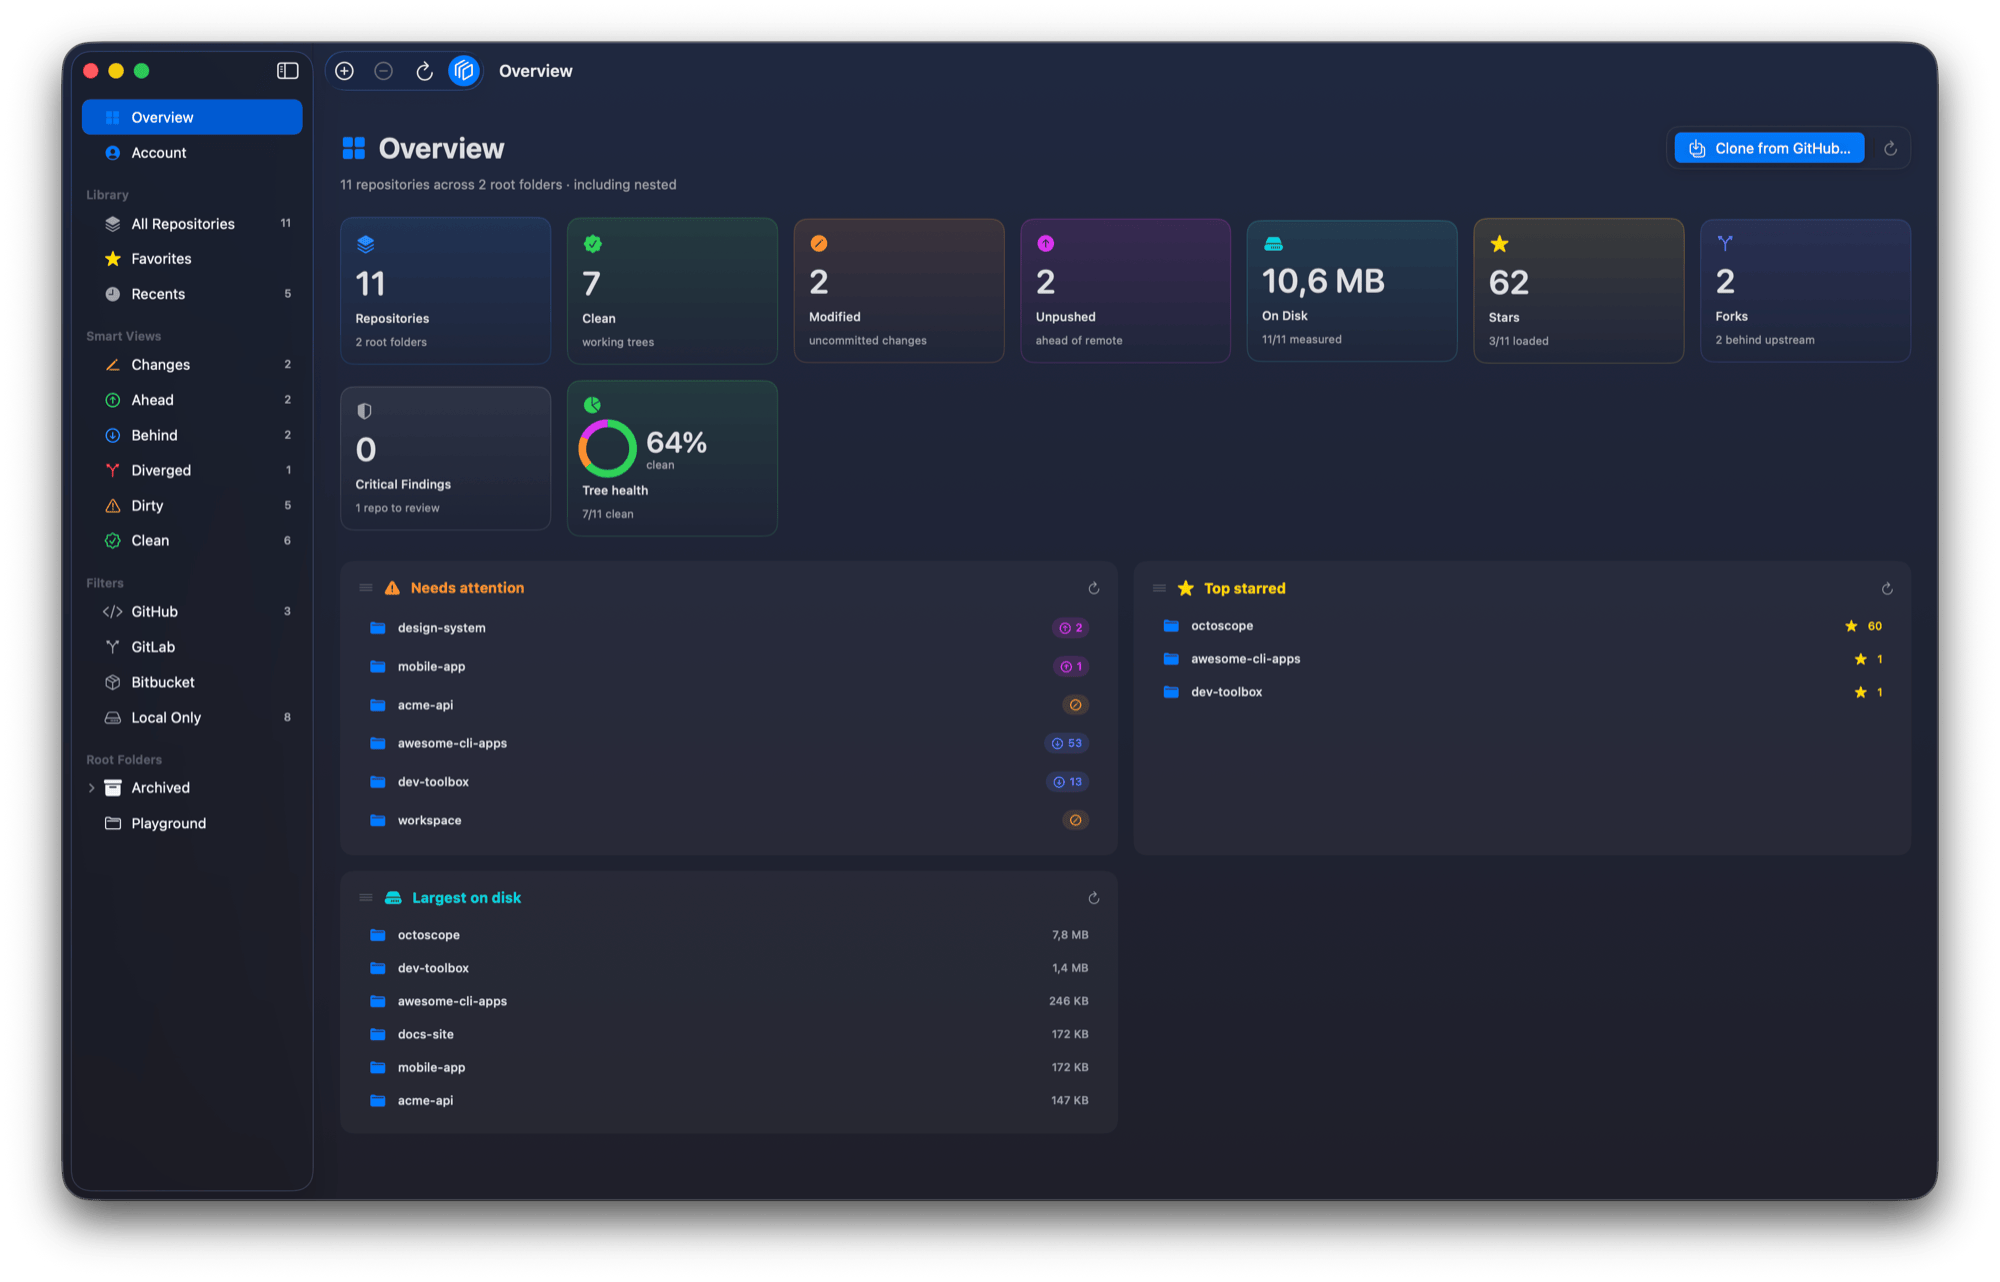
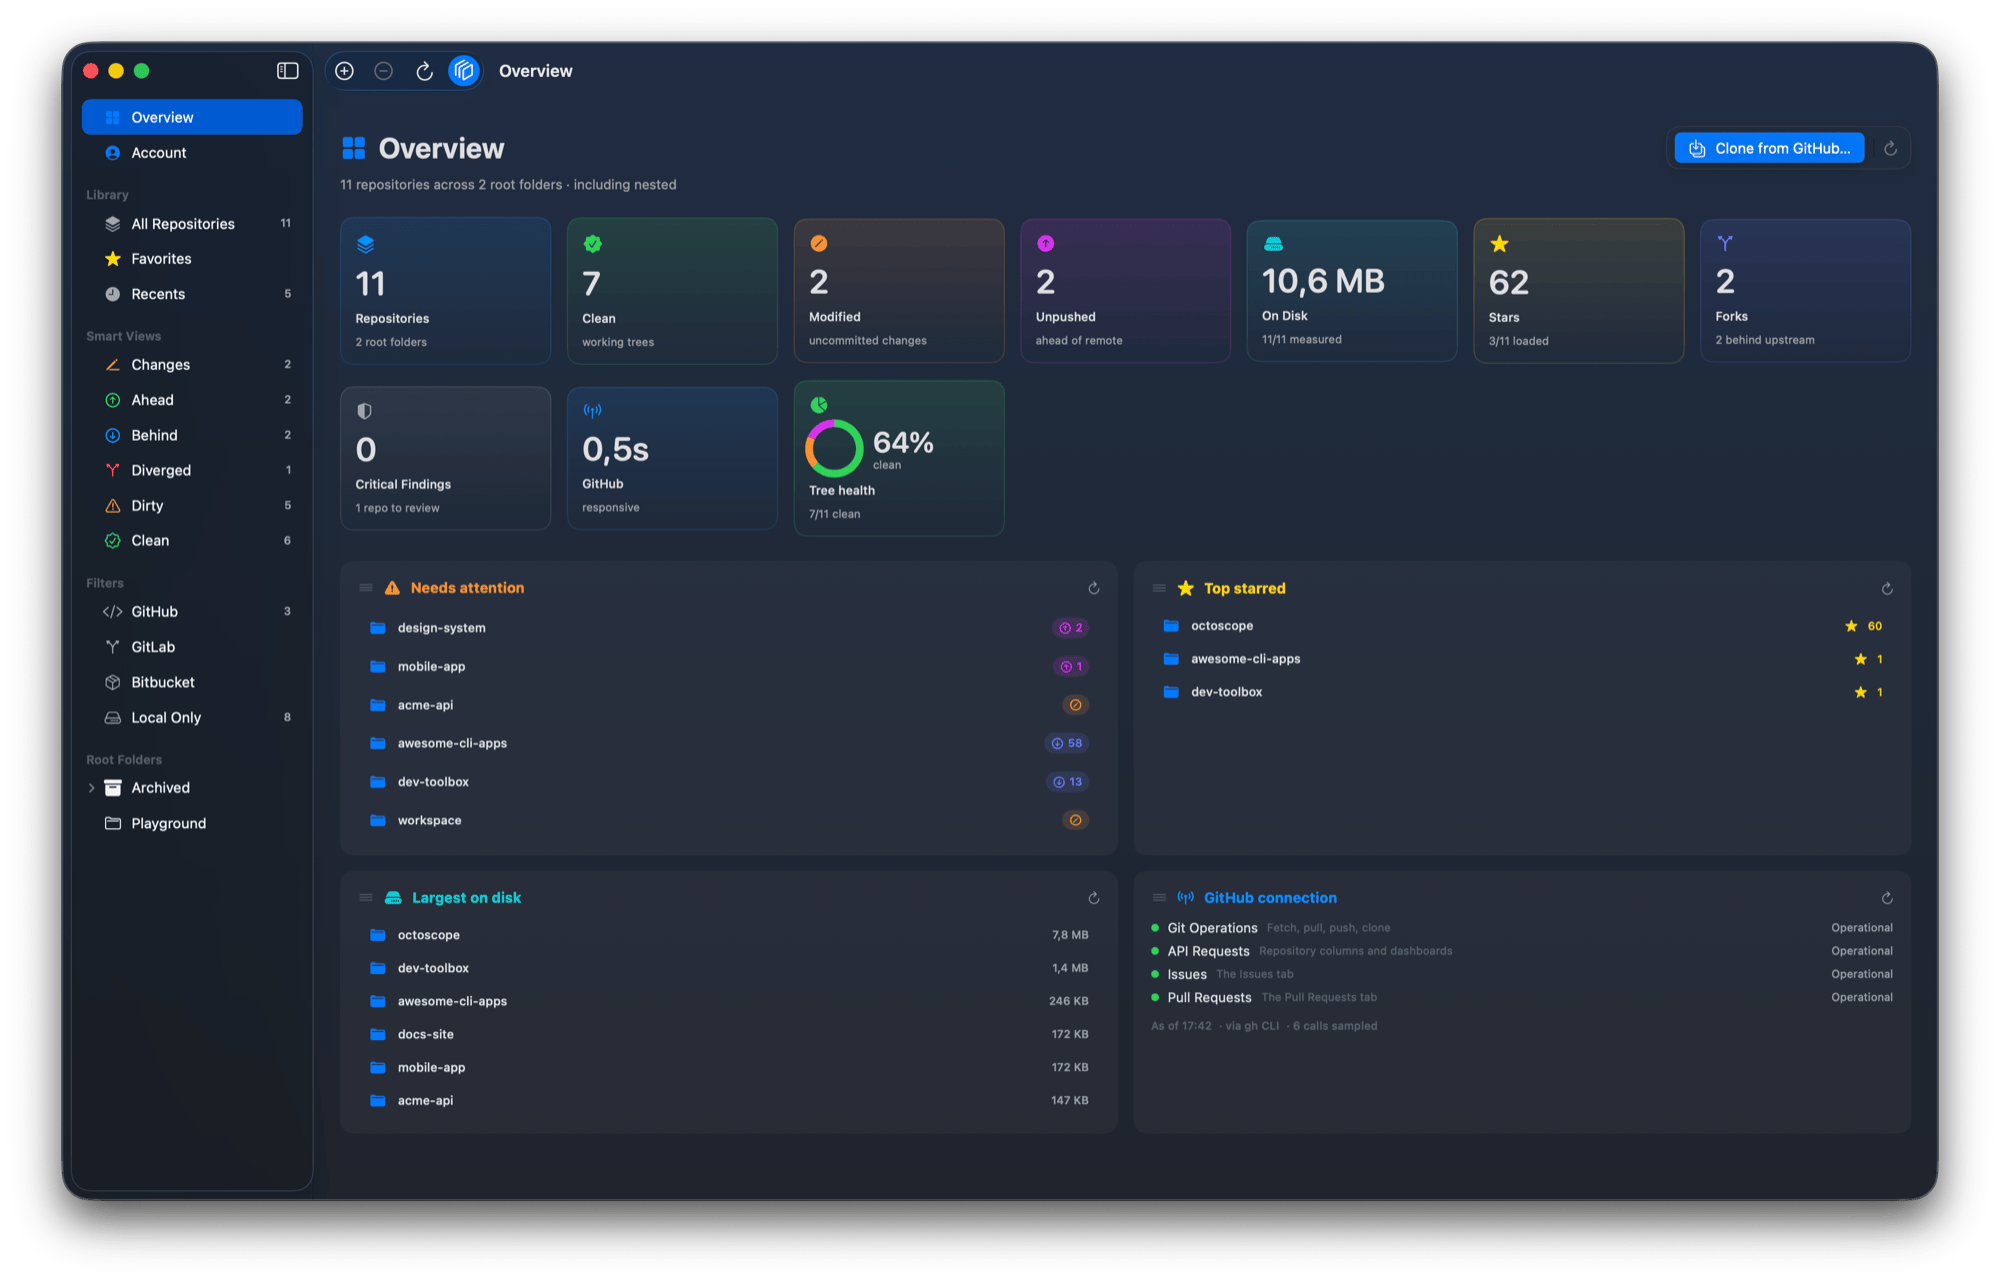
feat(sparkle): publish FinderGit v0.25.0 to appcast

diff --git a/public/release-notes/0.25.0.html b/public/release-notes/0.25.0.html
@@ -1,0 +1,133 @@
+<!DOCTYPE html>
+<html lang="en">
+<head>
+<meta charset="utf-8">
+<meta name="viewport" content="width=device-width, initial-scale=1">
+<title>FinderGit 0.25.0 — Release Notes</title>
+<style>
+  :root {
+    color-scheme: light dark;
+    --bg: #ffffff;
+    --fg: #1a1a1a;
+    --accent: #007aff;
+    --muted: #6b6b73;
+    --code-bg: #f4f4f5;
+    --border: rgba(0,0,0,0.12);
+  }
+  @media (prefers-color-scheme: dark) {
+    :root {
+      --bg: #1c1c1e;
+      --fg: #ececec;
+      --muted: #9c9ca5;
+      --code-bg: #2c2c2e;
+      --border: rgba(255,255,255,0.14);
+    }
+  }
+  * { box-sizing: border-box; }
+  body {
+    font: 14px/1.55 -apple-system, BlinkMacSystemFont, "SF Pro Text", "Helvetica Neue", sans-serif;
+    color: var(--fg);
+    background: var(--bg);
+    margin: 0 auto;
+    padding: 20px 24px 40px;
+    max-width: 720px;
+  }
+  header.page-header {
+    border-bottom: 1px solid var(--border);
+    padding-bottom: 14px;
+    margin-bottom: 22px;
+  }
+  header.page-header h1 { font-size: 1.7em; margin: 0 0 4px; letter-spacing: -0.02em; }
+  header.page-header .subtitle { color: var(--muted); margin: 0; font-size: 0.92em; }
+  h1, h2, h3, h4 { letter-spacing: -0.01em; margin: 1.5em 0 0.5em; }
+  h1 { font-size: 1.4em; }
+  h2 { font-size: 1.2em; }
+  h3 { font-size: 1em; }
+  a { color: var(--accent); }
+  hr { border: 0; border-top: 1px solid var(--border); margin: 22px 0; }
+  ul, ol { padding-left: 1.4em; }
+  li { margin: 4px 0; }
+  code {
+    font: 0.9em ui-monospace, "SF Mono", Menlo, Consolas, monospace;
+    background: var(--code-bg);
+    padding: 1px 5px;
+    border-radius: 3px;
+  }
+  pre {
+    background: var(--code-bg);
+    padding: 12px 14px;
+    border-radius: 6px;
+    overflow-x: auto;
+    font-size: 0.88em;
+  }
+  pre code { background: transparent; padding: 0; font-size: 1em; }
+  blockquote {
+    margin: 12px 0;
+    padding-left: 12px;
+    border-left: 3px solid var(--border);
+    color: var(--muted);
+  }
+  table { border-collapse: collapse; width: 100%; margin: 12px 0; font-size: 0.95em; }
+  th, td { border: 1px solid var(--border); padding: 6px 10px; text-align: left; }
+  th { background: var(--code-bg); }
+  img { max-width: 100%; }
+</style>
+</head>
+<body>
+<header class="page-header">
+  <h1>FinderGit 0.25.0</h1>
+  <p class="subtitle">Release notes</p>
+</header>
+<p>FinderGit 0.25.0 — when GitHub is the problem, FinderGit says so</p>
+<h2>Highlights</h2>
+<p><strong>Know whether it's you or GitHub.</strong> When GitHub is having a bad day, every symptom you see looks like FinderGit's fault: a fetch that crawls, a repository column that comes up empty, a dashboard that won't finish loading. The Overview now carries a <strong>GitHub connection</strong> panel that answers it — how quickly your own requests are actually coming back, and whether GitHub is reporting trouble with the four services FinderGit depends on: Git operations, API requests, Issues and Pull Requests. When there's an open incident, its name and the latest official update appear right there, with a link to the full story.</p>
+<p><strong>Only those four, deliberately.</strong> An outage of something FinderGit never touches isn't news, and a warning that fires on everything is one you learn to ignore.</p>
+<p><strong>It never tells you GitHub is fine when it can't check.</strong> If the status page can't be reached, or a service can't be read, that shows as <em>Unknown</em> rather than a reassuring green. And a slowdown nobody has announced yet still shows up, because your own requests are the first thing to know about it — the more useful half, since a status page can only report what somebody chose to declare.</p>
+<p><strong>See how long an action has been running.</strong> Past three seconds, a running Fetch, Pull or Push shows its elapsed time on the button. A spinner tells you something is happening; it doesn't tell you whether the thing is working or wedged, and only the second question matters when a remote is answering slowly.</p>
+<h2>Bug fixes</h2>
+<p><strong>A slow remote could leave a repository's actions unusable for five minutes.</strong> Every action on a repository is disabled while one is running, and the time limit for a Fetch, Pull or Push was the one meant for a Git process wedged on your own machine. It's now far shorter for anything that talks to a server, while a first clone — which legitimately takes minutes on a large repository — keeps its own, longer allowance.</p>
+<p><strong>Opening the Overview with many repositories could bog the whole app down.</strong> Every repository asked "is GitHub reachable?" at the same moment, and none of them saw that the others were already asking, so the check ran once per repository instead of once. On a large workspace with a slow connection that was dozens of simultaneous checks. Now they share a single answer.</p>
+<p><strong>A rejected token would have read as GitHub being down.</strong> Caught before release: if your access token was revoked or lost its permissions, every request failed — and the new panel counted those as GitHub's failures, telling you <em>"Your GitHub requests are failing"</em> when the problem was your credential. A request that was refused is now kept separate from a request the server couldn't answer, so the dashboard points at the right place.</p>
+<p><strong>The Issues, PRs and Stars columns emptied silently when GitHub was unreachable</strong> — using the same blank cell that means "this repository isn't on GitHub". The columns still go quiet, but the Overview now says why.</p>
+<h2>Under the hood</h2>
+<ul>
+<li>
+<p>The status source reads <code class="notranslate">components.json</code> and <code class="notranslate">incidents/unresolved.json</code> <strong>unconditionally and in parallel</strong>. The obvious design — check the top-level indicator first, fetch the incident only if it's non-<code class="notranslate">none</code> — silently drops live incidents: measured on 2026-08-05, <code class="notranslate">status.json</code> reported <code class="notranslate">indicator: "none"</code> while an unresolved incident was open and every component still read <code class="notranslate">operational</code>. The three endpoints are peers, not a hierarchy.</p>
+</li>
+<li>
+<p>Components are matched on Statuspage's stable <code class="notranslate">id</code> with the display name as fallback, so a rename can't quietly drop one we depend on. An unrecognised status string, an unreachable page, or a component missing from the response all resolve to <code class="notranslate">unknown</code> — ordered <em>below</em> <code class="notranslate">operational</code> so it can never win a severity comparison, and tinted grey distinctly from green.</p>
+</li>
+<li>
+<p>Incidents that carry no component attribution are diagnostic-only: they can explain a call that actually failed, but they never raise a banner. GitHub declares these regularly, and one measured example was <em>"Incident With Blocked GitHub.com Traffic"</em> — precisely the class that breaks a desktop client while the dashboard stays green.</p>
+</li>
+<li>
+<p>The first-party signal leads because the published one has a hole: GitHub declared <strong>no incident at all on 2026-08-04</strong>, the day this was prompted by. The incident history spans 06-04 to 08-05 with entries either side and nothing in between.</p>
+</li>
+<li>
+<p>Time limits are now split by what a command is waiting on: 120s for fetch/pull/push, 900s for a clone, 300s for local plumbing. The <code class="notranslate">gh</code>-backed clone path had been capped at the 120s meant for metadata queries, so a large repository could clone fine one way and fail the other.</p>
+</li>
+<li>
+<p>The GitHub REST/GraphQL path gets a dedicated <code class="notranslate">URLSession</code> with a 10s inactivity limit and a 30s hard ceiling, replacing <code class="notranslate">URLSession.shared</code>'s default — whose 60s is an <em>inactivity</em> timeout, not a wall-clock cap, so a response trickling bytes had no ceiling at all.</p>
+</li>
+<li>
+<p>Provider resolution is collapsed through a single-flight actor. Swift actors are reentrant across <code class="notranslate">await</code>, so a TTL cache whose timestamp is written <em>after</em> the probe returns doesn't dedupe anything: every caller arriving during the probe reads the same empty cache and starts its own.</p>
+</li>
+<li>
+<p>Request timings are recorded in the gateway rather than in each provider, so the CLI and token paths are measured identically and the dashboard can name which one produced the numbers. Git transfers are deliberately excluded — folding a multi-megabyte clone into the same median would blur "the API is slow" into "that pull was big".</p>
+</li>
+<li>
+<p>Failures are classified by what they say about the forge rather than by whether they happened. A 4xx means the request was refused — no permission, not found, rate-limited — and says nothing about GitHub's health; a 5xx or a timeout does. Cancellations and decode errors are ours. Only the second group reaches the verdict.</p>
+</li>
+<li>
+<p>The status response is streamed with a declared-size refusal before the first byte and an absolute ceiling for a chunked or mis-declared body. A time budget bounds how long a third party can hold you, not how much it can make you allocate.</p>
+</li>
+<li>
+<p>The new panel and its four component descriptions are localized into Italian, French, German and Spanish, plural agreement included.</p>
+</li>
+</ul>
+<h2>Install</h2>
+<p>Download the DMG below, drag FinderGit to Applications, and launch it. The app is signed with a Developer ID and notarized by Apple, so no Gatekeeper bypass is needed. Existing installations update themselves.</p>
+<h2>Requirements</h2>
+<p>macOS 15 or later. Universal binary (Apple Silicon and Intel).</p>
+</body>
+</html>

diff --git a/config/index.ts b/config/index.ts
@@ -92,7 +92,7 @@ export default {
     defaultLanguage: 'en',
   },
   app: {
-    version: '0.24.0',
+    version: '0.25.0',
     minMacOS: '15.0',
     downloadUrl: 'https://github.com/gfazioli/findergit-website/releases/latest',
   },
